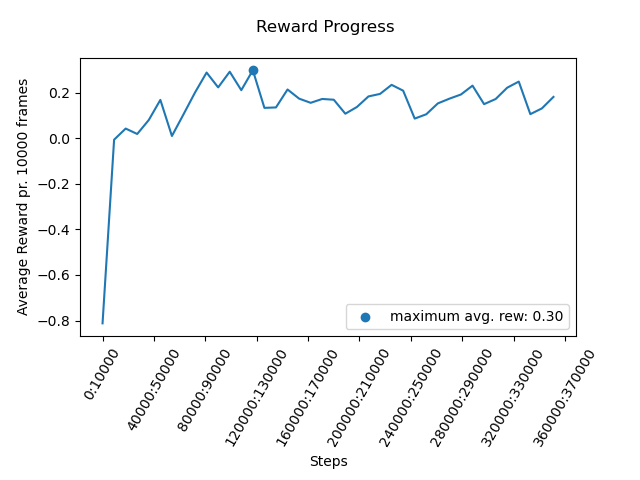
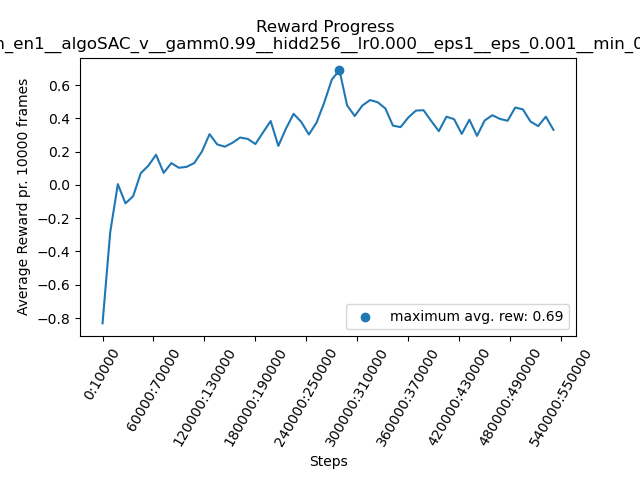
SAC results added

diff --git a/README.md b/README.md
@@ -17,8 +17,7 @@ conda env create --name rl_venv --file environment.yml
 ```
 main.py
 -
-To train an agent the main.py is used. Using the configuration in the utils/argparser.py. Running the code using the terminal with the following arguments, you can train a particular agent and results showing the training progress will be visualized.
-For convenience, the results are also included in /results/final/<method>
+To train an agent the main.py is used. Hyperparameters are set in the file utils/argparser.py or as a flag if main.py is run from the terminal. For each method a command for running the algorithm is provided. You can train a particular agent using these commands and results showing the training progress will be visualized. For convenience, the results using these commands are also included in /results/final/<method>. For each method 3 graphs are included. The first plot "Reward Progres" with steps as the x-axis show the average reward pr. step. The average is taken over non-overlapping sequences of 10.000 steps. The second plot shows length (frames/steps) for each episode that the agents has played. The last plot shows the total reward per episode the agents has received for each played episode. Training each episode takes between 20 minutes and 5 hours using a CPU (AMD Ryzen 9 5900X 12-Core Processor, 3701 Mhz, 12 Core(s), 24 Logical Processor(s))
 
 
 
@@ -86,15 +85,14 @@ python main.py --env_name "LunarLanderContinuous-v2" --visualize 0 --n_steps 600
 
 SAC:
 -------------
+python main.py --seed 3 --env_name LunarLanderContinuous-v2 --log_format "default" --frame_interval 10000 --visualize 0 --n_steps 600000 --n_env 1 --algorithm SAC_v0 --gamma 0.99 --hidden_size 256 --lr 0.0003 --batch_size 256 --grad_clipping 0 --tau 0.005 --reward_scale 2.0
 
-python main.py --env_name "LunarLanderContinuous-v2" --visualize False --n_steps 200000 --frame_interval 10000 --n_environments 1 --algorithm "REINFORCE" --gamma 0.95 --hidden_size 32 --lr 0.001 --eps 1 --eps_decay 0.0001 --min_eps 0.05
 
+![Image](/hand_in/results/final/SAC/avg_frame_rewards.png)
 
-![Image](/hand_in/results/final/SAC/avg_step_episode.png)
+![Image](/hand_in/results/final/SAC/episode_lengths.png)
 
-![Image](/hand_in/results/final/SAC/length_episode.png)
-
-![Image](/hand_in/results/final/SAC/rew_episode.png)
+![Image](/hand_in/results/final/SAC/episode_rewards.png)
 
 
 
